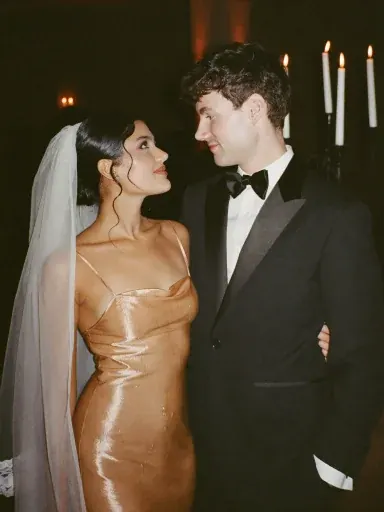
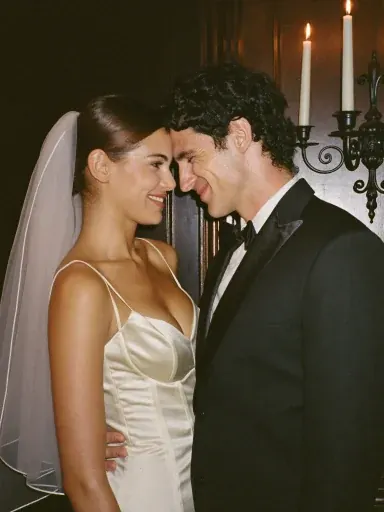
Echtes Papier fuer den Umschlag, vier Kacheln in der Galerie
Die Papierfaser aus der Makroaufnahme liegt jetzt unter allen vier Flaechen
des Umschlags. Jede Flaeche skaliert sie fuer sich, dadurch wirken Lasche,
Vorderseite und Karte wie getrennte Bogen und nicht wie eine durchgehende
Tapete. Darueber liegt der Lichtverlauf, ganz oben das feine Rauschen — das
Licht muss ueber der Faser liegen, sonst verschwindet die Modellierung.

Die Galerie hat vier statt drei Kacheln und wechselt bewusst ab: Paar, Detail,
Paar, Ort. Auf dem Rechner steht sie im Zweierraster; bei vier Kacheln im
Dreierraster bliebe die letzte allein in der zweiten Reihe stehen.

Getauscht wurde das Portraet im bronzefarbenen Kleid gegen zwei Aufnahmen im
hellen Satin. Das bronzefarbene liest sich schlicht nicht als Brautkleid.

ambra_fotos.py nimmt jetzt beliebig viele Kacheln und zusaetzlich die
Papiervorlage entgegen.

Claude-Session: https://claude.ai/code/session_01HfRaSoWYPTDxvTpRGwoDtp

diff --git a/themes/ambra/assets/css/einladung.css b/themes/ambra/assets/css/einladung.css
@@ -303,9 +303,15 @@ body.chrome-hell .chip button[aria-pressed="true"] { color: var(--brass); }
 .env__back, .env__front, .env__flap, .env__card {
   position: absolute;
   inset: 0;
+  /* Drei Lagen: feines Rauschen, das Licht, und darunter echte Papierfaser.
+     Jede Flaeche skaliert die Faser fuer sich, dadurch wirken sie wie
+     getrennte Bogen und nicht wie eine durchgehende Tapete. */
   background-image: var(--faser),
-    linear-gradient(160deg, #FDFAF4 0%, #F1E7D6 58%, #E6D9C3 100%);
-  background-size: 140px 140px, cover;
+    linear-gradient(160deg, rgba(255, 253, 248, 0.62) 0%,
+                            rgba(243, 233, 216, 0.50) 58%,
+                            rgba(226, 212, 188, 0.58) 100%),
+    url("../img/papier.webp");
+  background-size: 140px 140px, cover, cover;
 }
 .env__back {
   border-radius: 3px;
@@ -316,7 +322,10 @@ body.chrome-hell .chip button[aria-pressed="true"] { color: var(--brass); }
   clip-path: polygon(0 0, 50% 46%, 100% 0, 100% 100%, 0 100%);
   border-radius: 3px;
   background-image: var(--faser),
-    linear-gradient(168deg, #FCF7EE 0%, #EFE4D1 58%, #DFCFB5 100%);
+    linear-gradient(168deg, rgba(253, 249, 241, 0.60) 0%,
+                            rgba(238, 227, 208, 0.52) 58%,
+                            rgba(219, 203, 176, 0.62) 100%),
+    url("../img/papier.webp");
   box-shadow: 0 -1px 0 rgba(0, 0, 0, 0.07) inset;
   transform: translateZ(0);
 }
@@ -325,7 +334,10 @@ body.chrome-hell .chip button[aria-pressed="true"] { color: var(--brass); }
   transform-origin: 50% 0;
   transform: translateZ(1px) rotateX(0deg);
   background-image: var(--faser),
-    linear-gradient(184deg, #FAF2E5 0%, #E9DCC4 68%, #D4C1A0 100%);
+    linear-gradient(184deg, rgba(252, 246, 235, 0.58) 0%,
+                            rgba(233, 220, 196, 0.54) 68%,
+                            rgba(206, 187, 154, 0.64) 100%),
+    url("../img/papier.webp");
   filter: drop-shadow(0 4px 6px rgba(56, 38, 16, 0.28));
 }
 /* Keine eigene Rueckseite: der Filter oben flacht das Element ab, damit
@@ -345,7 +357,10 @@ body.chrome-hell .chip button[aria-pressed="true"] { color: var(--brass); }
   /* Heller und glatter als der Umschlag. Traegt die Karte dasselbe Papier,
      verschmilzt sie beim Herausfahren mit dem Fach. */
   background-image: var(--faser),
-    linear-gradient(170deg, #FFFDF8 0%, #FAF4E9 62%, #F2E9DA 100%);
+    linear-gradient(170deg, rgba(255, 255, 252, 0.74) 0%,
+                            rgba(252, 247, 238, 0.66) 62%,
+                            rgba(243, 234, 219, 0.70) 100%),
+    url("../img/papier.webp");
   box-shadow: 0 -2px 12px rgba(48, 32, 12, 0.16),
               0 16px 36px rgba(0, 0, 0, 0.42);
 }
@@ -703,8 +718,8 @@ body.is-scrolled .hero__scroll { opacity: 0; }
 @media (min-width: 46rem) {
   .galerie {
     grid-auto-flow: row;
-    grid-template-columns: repeat(3, 1fr);
-    width: min(100% - 3rem, 52rem);
+    grid-template-columns: repeat(2, 1fr);
+    width: min(100% - 3rem, 40rem);
     margin-inline: auto;
     padding-inline: 0;
     overflow: visible;

diff --git a/themes/ambra/index.html b/themes/ambra/index.html
@@ -201,13 +201,16 @@
     </div>
 
     <ul class="galerie rise" style="--d:160ms" data-galerie>
-      <li><button type="button"><img src="assets/img/g-3.webp" width="384" height="512" loading="lazy"
-        alt="Marlene und Anton dicht beieinander im Kerzenlicht"
-        data-alt-en="Marlene and Anton close together in candlelight"></button></li>
       <li><button type="button"><img src="assets/img/g-1.webp" width="384" height="512" loading="lazy"
+        alt="Marlene und Anton im Kerzenlicht, sie lehnt an seiner Schulter"
+        data-alt-en="Marlene and Anton in candlelight, her head against his shoulder"></button></li>
+      <li><button type="button"><img src="assets/img/g-2.webp" width="384" height="512" loading="lazy"
         alt="Zwei Trauringe auf dunklem Holz neben einer brennenden Kerze"
         data-alt-en="Two wedding bands on dark wood beside a lit candle"></button></li>
-      <li><button type="button"><img src="assets/img/g-2.webp" width="384" height="512" loading="lazy"
+      <li><button type="button"><img src="assets/img/g-3.webp" width="384" height="512" loading="lazy"
+        alt="Stirn an Stirn, kurz bevor es losgeht"
+        data-alt-en="Forehead to forehead, moments before it begins"></button></li>
+      <li><button type="button"><img src="assets/img/g-4.webp" width="384" height="512" loading="lazy"
         alt="Gut Morgentau bei Einbruch der Dunkelheit, alle Fenster erleuchtet"
         data-alt-en="Gut Morgentau at nightfall, every window lit"></button></li>
     </ul>

diff --git a/build/art/ambra_fotos.py b/build/art/ambra_fotos.py
@@ -7,7 +7,7 @@ kommen, und legt sie im richtigen Zuschnitt, in der richtigen Groesse und als
 WebP im Theme ab. Dieselbe Aufgabe stellt sich bei jedem Kunden wieder, darum
 ein Skript und keine Handarbeit.
 
-    python3 build/art/ambra_fotos.py <hero> <siegel> <g1> <g2> <g3>
+    python3 build/art/ambra_fotos.py <hero> <siegel> <papier> <kachel> [<kachel> ...]
 
 Das Siegel wird freigestellt: der weisse Grund wird von den Ecken her
 weggenommen, damit es auf dem dunklen Umschlag liegen kann. Nur zusammen-
@@ -29,8 +29,9 @@ IMG = ROOT / "themes" / "ambra" / "assets" / "img"
 # aber nicht groesser als noetig: eine Einladung wird unterwegs geoeffnet,
 # oft mit schlechtem Empfang.
 ZIELE = {
-    "hero":  (1080, 1920, 80),   # bildschirmfuellend, 9:16
+    "hero":   (1080, 1920, 80),  # bildschirmfuellend, 9:16
     "kachel": (900, 1200, 78),   # Galerie, 3:4
+    "papier": (700, 700, 82),    # Faserung des Umschlags, quadratisch
 }
 
 
@@ -100,14 +101,18 @@ def freistellen(im: Image.Image, schwelle: int = 232, weich: float = 0.9) -> Ima
 
 
 def main(argv: list[str]) -> int:
-    if len(argv) != 5:
+    if len(argv) < 4:
         print(__doc__.strip())
         return 2
-    hero, siegel, *kacheln = (pathlib.Path(a) for a in argv)
+    hero, siegel, papier, *kacheln = (pathlib.Path(a) for a in argv)
 
     b, h, q = ZIELE["hero"]
     passend(Image.open(hero).convert("RGB"), b, h).save(
         IMG / "hero.webp", "WEBP", quality=q, method=6)
+
+    b, h, q = ZIELE["papier"]
+    passend(Image.open(papier).convert("RGB"), b, h).save(
+        IMG / "papier.webp", "WEBP", quality=q, method=6)
 
     s = freistellen(Image.open(siegel))
     if s.width > 640:
@@ -115,14 +120,17 @@ def main(argv: list[str]) -> int:
     s.save(IMG / "siegel.webp", "WEBP", quality=88, method=6, exact=True)
 
     b, h, q = ZIELE["kachel"]
+    namen = ["hero.webp", "siegel.webp", "papier.webp"]
     for i, k in enumerate(kacheln, start=1):
         passend(Image.open(k).convert("RGB"), b, h).save(
             IMG / f"g-{i}.webp", "WEBP", quality=q, method=6)
+        namen.append(f"g-{i}.webp")
 
-    for name in ("hero.webp", "siegel.webp", "g-1.webp", "g-2.webp", "g-3.webp"):
-        p = IMG / name
-        with Image.open(p) as im:
-            print(f"  {name:14} {im.size[0]:>5}x{im.size[1]:<5} {p.stat().st_size // 1024:>4} KB")
+    for name in namen:
+        pfad = IMG / name
+        with Image.open(pfad) as im:
+            print(f"  {name:14} {im.size[0]:>5}x{im.size[1]:<5} "
+                  f"{pfad.stat().st_size // 1024:>4} KB")
     return 0
 
 

diff --git a/themes/README.md b/themes/README.md
@@ -38,7 +38,7 @@ Dunkeln, dort wo die Antwort abgegeben wird.
 | Hero mit Namen, Datum, Ort, langsamer Bildfahrt | fertig |
 | Countdown, live, mit Zustand „danach" | fertig |
 | Zeitstrahl „Unser Weg", zeichnet sich beim Scrollen | fertig |
-| Galerie mit Lichtkasten (`<dialog>`) | fertig, drei Fotos |
+| Galerie mit Lichtkasten (`<dialog>`) | fertig, vier Fotos |
 | Ablauf des Tages | fertig |
 | Ort mit Karten- und Kalenderknopf (.ics im Browser erzeugt) | fertig |
 | RSVP mit allen acht Zustandsformen | fertig, sendet nichts |
@@ -56,9 +56,10 @@ haben 1536 bzw. 2048 px; siehe „Bilder in voller Auflösung nachreichen".
 **Die Anbindung.** Das RSVP-Formular behält alles im Browser. Für einen echten
 Kunden muss es an die Engine senden, siehe unten.
 
-**Zwei weitere Galeriebilder.** Drei Kacheln tragen die Galerie, fünf wären
-schöner. Details ohne Gesichter eignen sich am besten, weil dort die Frage der
-Wiedererkennbarkeit gar nicht erst entsteht.
+**Mehr Abwechslung in der Galerie.** Vier Kacheln im Zweierraster, davon zwei
+Porträts. Weitere Aufnahmen sollten Details ohne Gesichter sein (Hände, Tafel,
+Schleier), weil die Frage der Wiedererkennbarkeit dort gar nicht erst entsteht
+und die Galerie sonst zu porträtlastig wird.
 
 ---
 
@@ -68,7 +69,7 @@ Es gibt ein Skript dafür, damit bei jedem Kunden nicht von Hand zugeschnitten
 werden muss:
 
 ```bash
-python3 build/art/ambra_fotos.py <hero> <siegel> <g1> <g2> <g3>
+python3 build/art/ambra_fotos.py <hero> <siegel> <papier> <kachel> [<kachel> ...]
 ```
 
 Es beschneidet auf das richtige Verhältnis, verkleinert auf die Zielgröße,
@@ -80,6 +81,7 @@ globaler Helligkeitsfilter würde die mit wegnehmen.
 |---|---|---|
 | `assets/img/hero.webp` | hochkant 9:16, Ziel 1080 × 1920 | Titelbild. Fehlt es, bleibt Kerzenlicht im Dunkeln stehen. |
 | `assets/img/siegel.webp` | freigestellt, mit Alphakanal | das Siegel auf dem Umschlag |
+| `assets/img/papier.webp` | quadratisch, Ziel 700 × 700 | Faserung aller Papierflächen des Umschlags |
 | `assets/img/g-1.webp` … | hochkant 3:4, Ziel 900 × 1200 | Galerie |
 
 Hochskaliert wird bewusst nicht: ein weichgerechnetes Bild sieht schlechter
